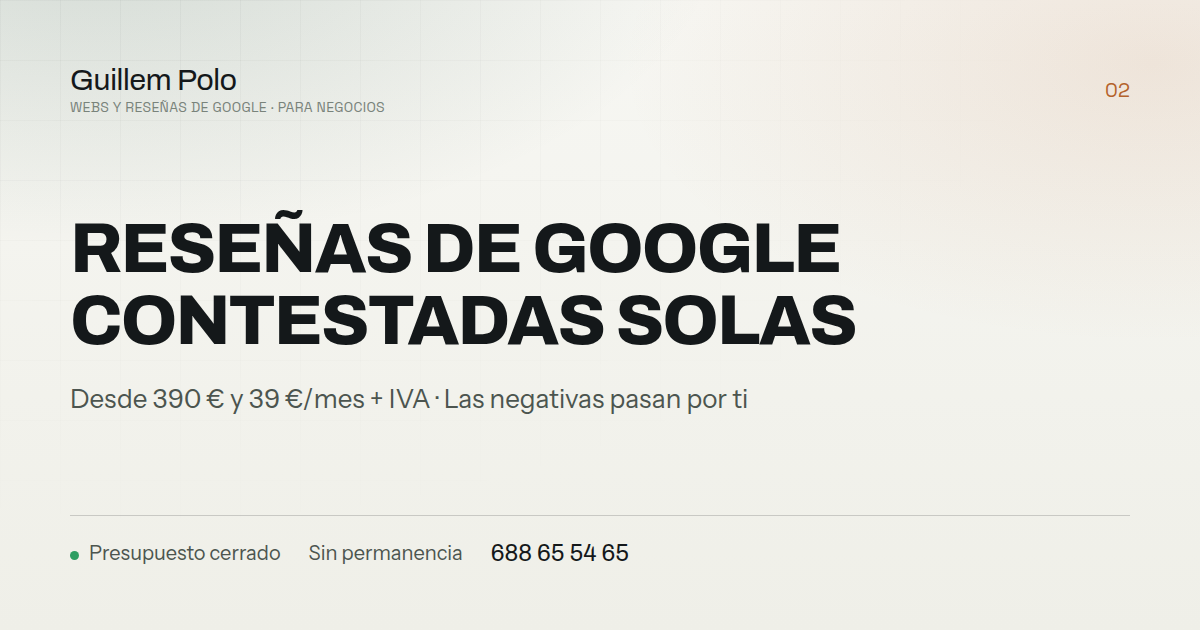
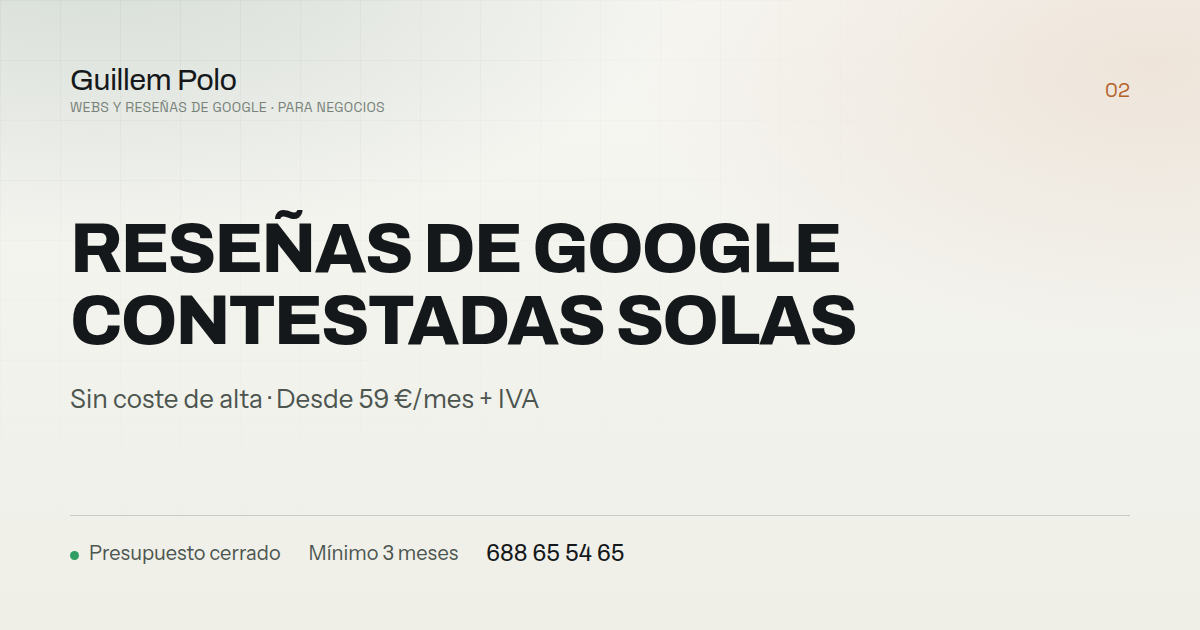
Reseñas: sin coste de alta, desde 59 €/mes, mínimo 3 meses

Changed region(s): [[0.0617, 0.6032, 0.6167, 0.6635], [0.2467, 0.8444, 0.5242, 0.9048]]

diff --git a/resenas-google.html b/resenas-google.html
@@ -3,23 +3,23 @@
 <head>
 <meta charset="utf-8">
 <meta name="viewport" content="width=device-width, initial-scale=1">
-<title>Reseñas de Google contestadas automáticamente · desde 39 €/mes + IVA</title>
-<meta name="description" content="Cada reseña nueva recibe respuesta en minutos con tu tono. Las negativas te llegan a ti antes de publicarse. Desde 390 € de puesta en marcha y 39 €/mes + IVA, sin permanencia.">
+<title>Reseñas de Google contestadas automáticamente · desde 59 €/mes + IVA</title>
+<meta name="description" content="Cada reseña nueva recibe respuesta en minutos con tu tono. Las negativas te llegan a ti antes de publicarse. Sin coste de alta, desde 59 €/mes + IVA.">
 <meta name="author" content="Guillem Polo">
 <meta name="robots" content="index, follow">
 <link rel="canonical" href="https://guillempolo.es/resenas-google">
 <meta property="og:type" content="website">
 <meta property="og:locale" content="es_ES">
 <meta property="og:site_name" content="Guillem Polo">
-<meta property="og:title" content="Reseñas de Google contestadas automáticamente · desde 39 €/mes + IVA">
-<meta property="og:description" content="Cada reseña nueva recibe respuesta en minutos con tu tono. Las negativas te llegan a ti antes de publicarse. Desde 390 € de puesta en marcha y 39 €/mes + IVA, sin permanencia.">
+<meta property="og:title" content="Reseñas de Google contestadas automáticamente · desde 59 €/mes + IVA">
+<meta property="og:description" content="Cada reseña nueva recibe respuesta en minutos con tu tono. Las negativas te llegan a ti antes de publicarse. Sin coste de alta, desde 59 €/mes + IVA.">
 <meta property="og:url" content="https://guillempolo.es/resenas-google">
 <meta property="og:image" content="https://guillempolo.es/og-resenas-google.png">
 <meta property="og:image:width" content="1200">
 <meta property="og:image:height" content="630">
 <meta name="twitter:card" content="summary_large_image">
-<meta name="twitter:title" content="Reseñas de Google contestadas automáticamente · desde 39 €/mes + IVA">
-<meta name="twitter:description" content="Cada reseña nueva recibe respuesta en minutos con tu tono. Las negativas te llegan a ti antes de publicarse. Desde 390 € de puesta en marcha y 39 €/mes + IVA, sin permanencia.">
+<meta name="twitter:title" content="Reseñas de Google contestadas automáticamente · desde 59 €/mes + IVA">
+<meta name="twitter:description" content="Cada reseña nueva recibe respuesta en minutos con tu tono. Las negativas te llegan a ti antes de publicarse. Sin coste de alta, desde 59 €/mes + IVA.">
 <meta name="twitter:image" content="https://guillempolo.es/og-resenas-google.png">
 <meta name="theme-color" content="#F7F7F3">
 <link rel="icon" href="/favicon.svg" type="image/svg+xml">
@@ -89,7 +89,7 @@
       <a class="btn spot" href="#contacto">Que me lo monte <span class="fl">→</span></a>
       <a class="btn ghost spot" href="#ejemplo">Ver un mes entero</a>
     </div>
-    <div class="tiras-h"><div class="tira-h"><b>390 €</b><span>desde + IVA, puesta en marcha</span></div><div class="tira-h"><b>39 €/mes</b><span>desde + IVA, sin permanencia</span></div><div class="tira-h"><b>6 min</b><span>de media en contestar</span></div><div class="tira-h"><b>1 y 2 ★</b><span>siempre pasan por ti</span></div></div>
+    <div class="tiras-h"><div class="tira-h"><b>0 €</b><span>de alta, sin coste de puesta en marcha</span></div><div class="tira-h"><b>59 €/mes</b><span>desde + IVA, mínimo 3 meses</span></div><div class="tira-h"><b>6 min</b><span>de media en contestar</span></div><div class="tira-h"><b>1 y 2 ★</b><span>siempre pasan por ti</span></div></div>
   </div>
 </section>
 <nav class="saltos" aria-label="En esta página"><div class="marco saltos-in"><a href="#ejemplo">Ejemplo en vivo</a><a href="#precio">Precio</a><a href="#como">Cómo trabajo</a><a href="#preguntas">Preguntas</a><a href="#contacto" class="ult">Pedir presupuesto</a></div></nav>
@@ -229,27 +229,27 @@
   <div class="marco">
     <div class="sec-cab rev">
       <span class="eyebrow">03 — Precio</span>
-      <h2>Dos formas<br>de contratarlo</h2>
-      <p>Precio cerrado antes de empezar y sin IVA (21&nbsp;%), que se suma en la factura. Sin permanencia y con 14 días de garantía.</p>
+      <h2>Sin pagar nada<br>por empezar</h2>
+      <p>Una cuota al mes, sin IVA (21&nbsp;%), que se suma en la factura. Sin coste de alta, mínimo 3 meses y con 14 días de garantía.</p>
     </div>
     <div class="planes"><article class="plan tilt rev">
-      <span class="plan-eti">Paso 1 · una vez</span><h3 class="t4">Puesta en marcha</h3>
+      <span class="plan-eti">Paso 1 · para empezar</span><h3 class="t4">Puesta en marcha</h3>
       <p class="quien-p">Dejo el agente con tu tono y pongo al día lo que tienes sin contestar.</p>
-      <p class="desde-l">desde</p><p class="precio">390 €<small>+ IVA · una vez</small></p>
-      <p class="cuota">Se paga una vez: la mitad al aceptar y la otra mitad al dejarlo funcionando.</p>
+      <p class="precio">0 €<small>sin coste de alta</small></p>
+      <p class="cuota">No pagas nada por empezar: lo dejo funcionando y la primera cuota llega a fin de mes.</p>
       <ul><li>El agente con tu tono, tu trato y tu firma</li><li>Las reseñas recientes sin respuesta, contestadas en la primera semana</li><li>Las delicadas, revisadas contigo una a una</li><li>Funcionando en 3 días</li></ul>
       <a class="btn ghost spot" href="#contacto">Quiero ponerlo en marcha <span class="fl">→</span></a>
       <a class="enlace-f" href="#ejemplo">Ver el ejemplo <span class="fl">→</span></a>
     </article><article class="plan top tilt rev">
       <span class="plan-eti">Paso 2 · cada mes</span><h3 class="t4">Piloto automático</h3>
       <p class="quien-p">No vuelves a tocar una reseña, salvo las que merecen tu visto bueno.</p>
-      <p class="desde-l">desde</p><p class="precio">39 €<small>/mes + IVA</small></p>
-      <p class="cuota">Sin permanencia: el mes que no lo quieras, se apaga.</p>
+      <p class="desde-l">desde</p><p class="precio">59 €<small>/mes + IVA</small></p>
+      <p class="cuota">Mínimo 3 meses. Después, mes a mes: el mes que no lo quieras, se apaga.</p>
       <ul><li>Cada reseña nueva contestada sola, en minutos</li><li>Las negativas te llegan al móvil antes de publicarse</li><li>Respuestas con tu tono, nunca calcadas</li><li>Resumen mensual de qué se repite en las quejas</li></ul>
       <a class="btn ghost spot" href="#contacto">Quiero el piloto automático <span class="fl">→</span></a>
       <a class="enlace-f" href="#ejemplo">Ver el ejemplo <span class="fl">→</span></a>
     </article></div>
-    <p class="nota-precio rev"><b>Todos los precios son sin IVA (21&nbsp;%).</b> <b>Precio cerrado y sin permanencia</b>: la puesta en marcha se paga una vez y la cuota mensual se apaga el mes que no la quieras. Antes de pagar nada te mando diez respuestas escritas a reseñas tuyas de verdad, para que veas el tono.</p>
+    <p class="nota-precio rev"><b>Todos los precios son sin IVA (21&nbsp;%).</b> <b>Sin coste de alta</b>: pagas solo la cuota, con un mínimo de 3 meses; después, se apaga el mes que no la quieras. Antes de pagar nada te mando diez respuestas escritas a reseñas tuyas de verdad, para que veas el tono.</p>
   </div>
 </section>
 <section class="sec" id="como">

diff --git a/index.html b/index.html
@@ -166,11 +166,11 @@
     </div>
     <nav class="toca-m" aria-label="Ejemplos para probar">
       <a class="toca-c" href="/paginas-web#ejemplo"><i aria-hidden="true">01 · desde 190 € + IVA</i><b>Página web</b><span>Mira tres webs y prueba la calculadora y las citas</span><em aria-hidden="true">→</em></a>
-      <a class="toca-c" href="/resenas-google#vivo-res"><i aria-hidden="true">02 · desde 390 € + IVA</i><b>Reseñas de Google</b><span>Escribe una reseña y mira qué contesta</span><em aria-hidden="true">→</em></a>
+      <a class="toca-c" href="/resenas-google#vivo-res"><i aria-hidden="true">02 · desde 59 €/mes + IVA</i><b>Reseñas de Google</b><span>Escribe una reseña y mira qué contesta</span><em aria-hidden="true">→</em></a>
     </nav>
     <div class="cuatro">
       <button class="q" data-ir="t-web"><i>01</i><b>Página web</b><span>desde 190 € + IVA</span></button>
-      <button class="q" data-ir="t-res"><i>02</i><b>Reseñas de Google</b><span>desde 390 € + IVA</span></button>
+      <button class="q" data-ir="t-res"><i>02</i><b>Reseñas de Google</b><span>desde 59 €/mes + IVA</span></button>
     </div>
     </div>
 
@@ -356,16 +356,16 @@
             </ul>
             <div class="planes">
               <article class="plan tilt">
-                <span class="plan-eti">Paso 1 · una vez</span><h4>Puesta en marcha</h4>
-                <p class="desde-l">desde</p><p class="precio">390 €<small>+ IVA</small></p>
-                <p class="cuota">Se paga una vez: la mitad al aceptar y la otra al dejarlo funcionando.</p>
+                <span class="plan-eti">Paso 1 · para empezar</span><h4>Puesta en marcha</h4>
+                <p class="precio">0 €<small>sin coste de alta</small></p>
+                <p class="cuota">No pagas nada por empezar: lo dejo funcionando y la primera cuota llega a fin de mes.</p>
                 <ul><li>El agente con tu tono y tu firma</li><li>Las reseñas recientes sin respuesta, contestadas en la primera semana</li><li>Las delicadas, revisadas contigo una a una</li></ul>
                 <a class="enlace-f" href="/resenas-google">Ver la página completa <span class="fl">→</span></a>
               </article>
               <article class="plan top tilt">
                 <span class="plan-eti">Paso 2 · cada mes</span><h4>Piloto automático</h4>
-                <p class="desde-l">desde</p><p class="precio">39 €<small>/mes + IVA</small></p>
-                <p class="cuota">Sin permanencia: si un mes no te convence, se para y ya está.</p>
+                <p class="desde-l">desde</p><p class="precio">59 €<small>/mes + IVA</small></p>
+                <p class="cuota">Mínimo 3 meses. Después, mes a mes: el mes que no te convenza, se para.</p>
                 <ul><li>Cada reseña nueva, contestada sola</li><li>Las negativas pasan antes por tu móvil</li><li>Resumen mensual de qué se repite</li></ul>
                 <a class="enlace-f" href="/resenas-google">Ver la página completa <span class="fl">→</span></a>
               </article>
@@ -642,7 +642,7 @@
         <tr><td>Arreglo de web de 190 € + IVA</td><td>38 €</td></tr>
         <tr><td>Web básica de 490 € + IVA</td><td>98 €</td></tr>
         <tr><td>Web completa de 590 € + IVA</td><td>118 €</td></tr>
-        <tr><td>Reseñas de 390 € + IVA</td><td>78 €</td></tr>
+        <tr><td>Reseñas de 59 €/mes + IVA</td><td>35 €</td></tr>
         <tr><td>Se paga</td><td>a 30 días</td></tr>
       </table>
     </div>
@@ -675,7 +675,7 @@
       </details>
       <details>
         <summary><span class="mas"></span>¿Hay cuota mensual obligatoria?</summary>
-        <p class="resp">Solo la del dominio, el alojamiento y el mantenimiento, desde 15 €/mes + IVA, y puedes contratarlos tú por tu cuenta si prefieres. Las reseñas sí llevan cuota, desde 39 €/mes + IVA, porque se contestan todos los días; se cancela cuando quieras. El arreglo de una web no lleva cuota.</p>
+        <p class="resp">Solo la del dominio, el alojamiento y el mantenimiento, desde 15 €/mes + IVA, y puedes contratarlos tú por tu cuenta si prefieres. Las reseñas sí llevan cuota, desde 59 €/mes + IVA y sin coste de alta, porque se contestan todos los días; se cancela cuando quieras. El arreglo de una web no lleva cuota.</p>
       </details>
       <details>
         <summary><span class="mas"></span>¿Las respuestas a las reseñas suenan a robot?</summary>

diff --git a/presupuesto.html b/presupuesto.html
@@ -203,8 +203,8 @@ var CAT=[
  {g:"Webs",c:"Web básica",d:"Una página con hasta 5 secciones, textos escritos por mí, botón de llamar y WhatsApp, aviso legal y cookies.",p:490},
  {g:"Webs",c:"Web completa",d:"Hasta 6 páginas, panel para cambiarla tú, preparada para buscar por ciudad y oficio, medición de visitas y llamadas.",p:590},
  {g:"Webs",c:"Dominio, alojamiento y mantenimiento",d:"Dominio a tu nombre, alojamiento, copias de seguridad y actualizaciones.",p:15,m:1},
- {g:"Reseñas",c:"Reseñas de Google · puesta en marcha",d:"El agente con tu tono y tu firma, y las reseñas recientes sin respuesta contestadas en la primera semana.",p:390},
- {g:"Reseñas",c:"Reseñas de Google · piloto automático",d:"Cada reseña nueva contestada en el día; las negativas te llegan antes al móvil. Resumen mensual.",p:39,m:1},
+ {g:"Reseñas",c:"Reseñas de Google · puesta en marcha",d:"El agente con tu tono y tu firma, y las reseñas recientes sin respuesta contestadas en la primera semana. Sin coste de alta.",p:0},
+ {g:"Reseñas",c:"Reseñas de Google · piloto automático",d:"Cada reseña nueva contestada en el día; las negativas te llegan antes al móvil. Resumen mensual. Mínimo 3 meses.",p:59,m:1},
  {g:"Extras",c:"Página extra",d:"Una página más, por ejemplo por servicio.",p:60},
  {g:"Extras",c:"Calculadora de presupuesto",d:"El cliente calcula un precio orientativo en tu web.",p:120},
  {g:"Extras",c:"Citas online",d:"Reserva de hora desde la web.",p:90},

diff --git a/condiciones.html b/condiciones.html
@@ -101,6 +101,7 @@
         <li><b>50 % al aceptar la propuesta.</b> Reserva la agenda, cubre el trabajo de arranque y es requisito para empezar.</li>
         <li><b>50 % a la entrega</b>, antes de la publicación definitiva o del traspaso de accesos.</li>
         <li>Las <b>cuotas mensuales</b> se facturan por adelantado el mismo día de cada mes.</li>
+        <li>El servicio de reseñas <b>no tiene coste de alta</b> y tiene un <b>mínimo de tres cuotas</b>; después puede darse de baja cualquier mes avisando antes del día de facturación.</li>
       </ul>
       <p>El impago de cualquier cantidad faculta para <b>suspender el servicio</b> transcurridos siete días naturales desde el vencimiento, sin que ello genere derecho a indemnización ni prorrateo. En operaciones entre empresas se aplicarán los intereses de demora previstos en la Ley 3/2004, de 29 de diciembre, de lucha contra la morosidad, así como los gastos de reclamación.</p></section>
 <section class="lg-art" id="a5"><h2><span class="n">05</span>Plazos</h2><p>Los plazos publicados se cuentan <b>en días laborables y desde que el cliente entrega todo el material necesario</b>: textos, fotografías, accesos, datos de facturación y cualquier información solicitada.</p>

diff --git a/socios.html b/socios.html
@@ -271,7 +271,7 @@ a:focus-visible{outline:2px solid var(--bosque);outline-offset:3px;border-radius
         <div class="fila"><span class="g">Arreglo de web · 190 € + IVA</span><b>38 €</b></div>
         <div class="fila"><span class="g">Web básica · 490 € + IVA</span><b>98 €</b></div>
         <div class="fila"><span class="g">Web completa · 590 € + IVA</span><b>118 €</b></div>
-        <div class="fila"><span class="g">Reseñas · 390 € + 39 €/mes, + IVA</span><b>78 €</b></div>
+        <div class="fila"><span class="g">Reseñas · 59 €/mes + IVA (3 primeros meses)</span><b>35 €</b></div>
       </div>
       <div class="resumen rev d1">
         <p class="grande">20 %<small> de lo que pague</small></p>
